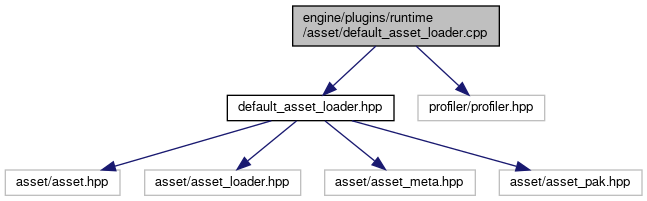
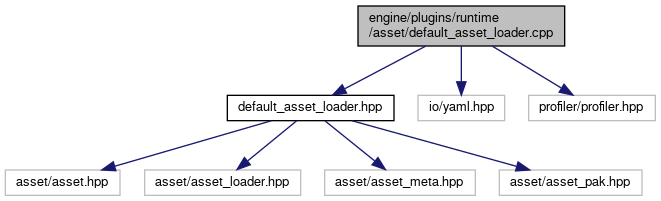
deploy: 02e3c4513cc4178374f3ac5b638b4110c986b7b2

diff --git a/default__asset__loader_8hpp_source.html b/default__asset__loader_8hpp_source.html
@@ -124,7 +124,7 @@ $(function() {
 <div class="line"><a name="l00057"></a><span class="lineno">   57</span>&#160;}<span class="comment">// namespace wmoge</span></div>
 <div class="ttc" id="aclasswmoge_1_1DefaultAssetLoader_html"><div class="ttname"><a href="classwmoge_1_1DefaultAssetLoader.html">wmoge::DefaultAssetLoader</a></div><div class="ttdoc">Loader for default single-file assets stored in yaml format.</div><div class="ttdef"><b>Definition:</b> default_asset_loader.hpp:41</div></div>
 <div class="ttc" id="aclasswmoge_1_1DefaultAssetLoader_html_a15f8268f88486b8156bffded9d3129bf"><div class="ttname"><a href="classwmoge_1_1DefaultAssetLoader.html#a15f8268f88486b8156bffded9d3129bf">wmoge::DefaultAssetLoader::~DefaultAssetLoader</a></div><div class="ttdeci">~DefaultAssetLoader() override=default</div></div>
-<div class="ttc" id="aclasswmoge_1_1DefaultAssetLoader_html_a5f50bde1e4314281da1e753706489c85"><div class="ttname"><a href="classwmoge_1_1DefaultAssetLoader.html#a5f50bde1e4314281da1e753706489c85">wmoge::DefaultAssetLoader::load</a></div><div class="ttdeci">Status load(const Strid &amp;name, const AssetMeta &amp;meta, Ref&lt; Asset &gt; &amp;asset) override</div><div class="ttdef"><b>Definition:</b> default_asset_loader.cpp:34</div></div>
+<div class="ttc" id="aclasswmoge_1_1DefaultAssetLoader_html_a5f50bde1e4314281da1e753706489c85"><div class="ttname"><a href="classwmoge_1_1DefaultAssetLoader.html#a5f50bde1e4314281da1e753706489c85">wmoge::DefaultAssetLoader::load</a></div><div class="ttdeci">Status load(const Strid &amp;name, const AssetMeta &amp;meta, Ref&lt; Asset &gt; &amp;asset) override</div><div class="ttdef"><b>Definition:</b> default_asset_loader.cpp:35</div></div>
 <div class="ttc" id="aclasswmoge_1_1DefaultAssetLoader_html_a6edbbc629417a803cc03b0b2c578c07d"><div class="ttname"><a href="classwmoge_1_1DefaultAssetLoader.html#a6edbbc629417a803cc03b0b2c578c07d">wmoge::DefaultAssetLoader::DefaultAssetLoader</a></div><div class="ttdeci">DefaultAssetLoader()=default</div></div>
 <div class="ttc" id="aclasswmoge_1_1DefaultAssetLoader_html_aca23b7a88fac726f3cc94a1b1157a20f"><div class="ttname"><a href="classwmoge_1_1DefaultAssetLoader.html#aca23b7a88fac726f3cc94a1b1157a20f">wmoge::DefaultAssetLoader::WG_RTTI_CLASS</a></div><div class="ttdeci">WG_RTTI_CLASS(DefaultAssetLoader, AssetLoader)</div></div>
 <div class="ttc" id="anamespacewmoge_html"><div class="ttname"><a href="namespacewmoge.html">wmoge</a></div><div class="ttdef"><b>Definition:</b> _rtti.cpp:33</div></div>

diff --git a/shader__asset__loader_8hpp_source.html b/shader__asset__loader_8hpp_source.html
@@ -123,7 +123,7 @@ $(function() {
 <div class="line"><a name="l00056"></a><span class="lineno">   56</span>&#160; </div>
 <div class="line"><a name="l00057"></a><span class="lineno">   57</span>&#160;}<span class="comment">// namespace wmoge</span></div>
 <div class="ttc" id="aclasswmoge_1_1ShaderAssetLoader_html"><div class="ttname"><a href="classwmoge_1_1ShaderAssetLoader.html">wmoge::ShaderAssetLoader</a></div><div class="ttdef"><b>Definition:</b> shader_asset_loader.hpp:41</div></div>
-<div class="ttc" id="aclasswmoge_1_1ShaderAssetLoader_html_a217f444edf3d5f986d862462023f9311"><div class="ttname"><a href="classwmoge_1_1ShaderAssetLoader.html#a217f444edf3d5f986d862462023f9311">wmoge::ShaderAssetLoader::load</a></div><div class="ttdeci">Status load(const Strid &amp;name, const AssetMeta &amp;meta, Ref&lt; Asset &gt; &amp;asset) override</div><div class="ttdef"><b>Definition:</b> shader_asset_loader.cpp:38</div></div>
+<div class="ttc" id="aclasswmoge_1_1ShaderAssetLoader_html_a217f444edf3d5f986d862462023f9311"><div class="ttname"><a href="classwmoge_1_1ShaderAssetLoader.html#a217f444edf3d5f986d862462023f9311">wmoge::ShaderAssetLoader::load</a></div><div class="ttdeci">Status load(const Strid &amp;name, const AssetMeta &amp;meta, Ref&lt; Asset &gt; &amp;asset) override</div><div class="ttdef"><b>Definition:</b> shader_asset_loader.cpp:39</div></div>
 <div class="ttc" id="aclasswmoge_1_1ShaderAssetLoader_html_abbafc34dee480d3c3516fbd968e3cf2a"><div class="ttname"><a href="classwmoge_1_1ShaderAssetLoader.html#abbafc34dee480d3c3516fbd968e3cf2a">wmoge::ShaderAssetLoader::~ShaderAssetLoader</a></div><div class="ttdeci">~ShaderAssetLoader() override=default</div></div>
 <div class="ttc" id="aclasswmoge_1_1ShaderAssetLoader_html_af639e0d6d32e587a31e7fc32a57fa586"><div class="ttname"><a href="classwmoge_1_1ShaderAssetLoader.html#af639e0d6d32e587a31e7fc32a57fa586">wmoge::ShaderAssetLoader::ShaderAssetLoader</a></div><div class="ttdeci">ShaderAssetLoader()=default</div></div>
 <div class="ttc" id="aclasswmoge_1_1ShaderAssetLoader_html_af8a3b484458fc3fe242388d797232d65"><div class="ttname"><a href="classwmoge_1_1ShaderAssetLoader.html#af8a3b484458fc3fe242388d797232d65">wmoge::ShaderAssetLoader::WG_RTTI_CLASS</a></div><div class="ttdeci">WG_RTTI_CLASS(ShaderAssetLoader, AssetLoader)</div></div>

diff --git a/shader__asset__loader_8cpp.html b/shader__asset__loader_8cpp.html
@@ -75,6 +75,7 @@ $(function() {
 <code>#include &quot;grc/shader.hpp&quot;</code><br />
 <code>#include &quot;grc/shader_file.hpp&quot;</code><br />
 <code>#include &quot;grc/shader_manager.hpp&quot;</code><br />
+<code>#include &quot;io/yaml.hpp&quot;</code><br />
 <code>#include &quot;profiler/profiler.hpp&quot;</code><br />
 <code>#include &quot;system/ioc_container.hpp&quot;</code><br />
 </div><div class="textblock"><div class="dynheader">
@@ -82,13 +83,14 @@ Include dependency graph for shader_asset_loader.cpp:</div>
 <div class="dyncontent">
 <div class="center"><img src="shader__asset__loader_8cpp__incl.png" border="0" usemap="#aengine_2plugins_2runtime_2asset_2shader__asset__loader_8cpp" alt=""/></div>
 <map name="aengine_2plugins_2runtime_2asset_2shader__asset__loader_8cpp" id="aengine_2plugins_2runtime_2asset_2shader__asset__loader_8cpp">
-<area shape="rect" title=" " alt="" coords="597,5,803,47"/>
+<area shape="rect" title=" " alt="" coords="683,5,890,47"/>
 <area shape="rect" href="shader__asset__loader_8hpp.html" title=" " alt="" coords="227,95,394,121"/>
 <area shape="rect" title=" " alt="" coords="419,95,525,121"/>
 <area shape="rect" title=" " alt="" coords="549,95,680,121"/>
 <area shape="rect" title=" " alt="" coords="705,95,869,121"/>
-<area shape="rect" title=" " alt="" coords="893,95,1019,121"/>
-<area shape="rect" title=" " alt="" coords="1043,95,1213,121"/>
+<area shape="rect" title=" " alt="" coords="893,95,979,121"/>
+<area shape="rect" title=" " alt="" coords="1003,95,1130,121"/>
+<area shape="rect" title=" " alt="" coords="1154,95,1323,121"/>
 <area shape="rect" title=" " alt="" coords="5,169,120,196"/>
 <area shape="rect" title=" " alt="" coords="145,169,301,196"/>
 <area shape="rect" title=" " alt="" coords="325,169,475,196"/>

diff --git a/default__asset__loader_8cpp.html b/default__asset__loader_8cpp.html
@@ -72,15 +72,17 @@ $(function() {
 </div><!--header-->
 <div class="contents">
 <div class="textblock"><code>#include &quot;<a class="el" href="default__asset__loader_8hpp_source.html">default_asset_loader.hpp</a>&quot;</code><br />
+<code>#include &quot;io/yaml.hpp&quot;</code><br />
 <code>#include &quot;profiler/profiler.hpp&quot;</code><br />
 </div><div class="textblock"><div class="dynheader">
 Include dependency graph for default_asset_loader.cpp:</div>
 <div class="dyncontent">
 <div class="center"><img src="default__asset__loader_8cpp__incl.png" border="0" usemap="#aengine_2plugins_2runtime_2asset_2default__asset__loader_8cpp" alt=""/></div>
 <map name="aengine_2plugins_2runtime_2asset_2default__asset__loader_8cpp" id="aengine_2plugins_2runtime_2asset_2default__asset__loader_8cpp">
-<area shape="rect" title=" " alt="" coords="293,5,499,47"/>
+<area shape="rect" title=" " alt="" coords="358,5,565,47"/>
 <area shape="rect" href="default__asset__loader_8hpp.html" title=" " alt="" coords="227,95,394,121"/>
-<area shape="rect" title=" " alt="" coords="418,95,545,121"/>
+<area shape="rect" title=" " alt="" coords="418,95,505,121"/>
+<area shape="rect" title=" " alt="" coords="529,95,655,121"/>
 <area shape="rect" title=" " alt="" coords="5,169,120,196"/>
 <area shape="rect" title=" " alt="" coords="145,169,301,196"/>
 <area shape="rect" title=" " alt="" coords="325,169,475,196"/>
